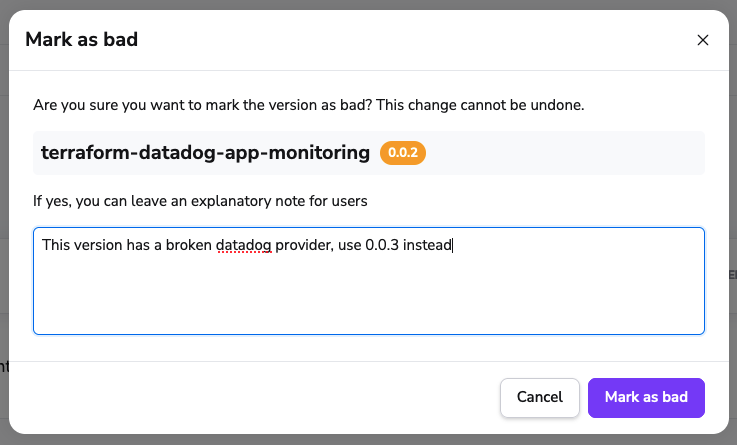
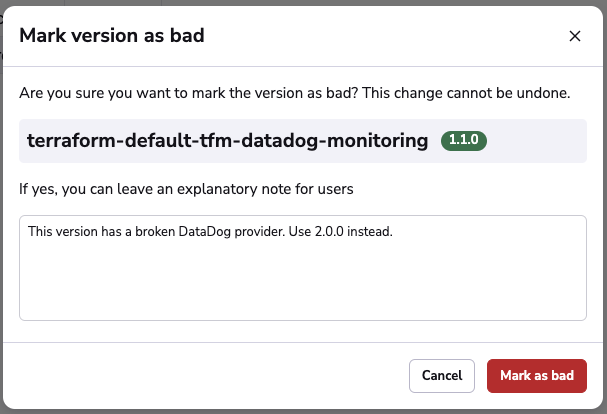
feat: screenshots and text for the new module redesign sections

Changed region(s): [[0.0, 0.0, 1.0, 1.0]]

diff --git a/docs/vendors/terraform/module-registry.md b/docs/vendors/terraform/module-registry.md
@@ -268,7 +268,7 @@ Note that in order to refer to a test case, you need to set a unique `id` to it.
 
 Whenever tests succeed on a [tracked change](../../concepts/run/README.md#where-do-runs-come-from), a new **Version** is created based on the `module_version` in the configuration. Important thing to note is that Spacelift will not let you reuse the number of a successful version, and will require you to strictly follow semantic versioning - ie. you can't go to from `0.2.0` to `0.4.0`, skipping `0.3.0` entirely.
 
-![](../../assets/screenshots/Versions_·_terraform-spacelift-example.png)
+![](../../assets/screenshots/Versions_-_terraform_spacelift_example.png)
 
 Two proposed git flow are as follows:
 
@@ -303,11 +303,18 @@ You can also use [Git push policies](../../concepts/policy/push-policy/README.md
 
 ## Marking versions as bad
 
+!!! warning
+    Marking a version as bad cannot be undone.
+
 If you don't want people to use a specific version of your module, you can mark it as bad. Currently, this feature **doesn't have any technical implications** - it is still downloadable and usable, but it's a good way to communicate to your users that a specific version is not recommended.
 
-You need to click on the version number and then click on the **Mark as bad** button on the right. Make sure to leave a note explaining why the version is bad.
+You can mark a version as bad using the dropdown menu on the right side of the versions list or in the version details view. Make sure to leave a note explaining why the version is bad.
 
 ![](../../assets/screenshots/Version_mark_as_bad.png)
+
+You'll be able to see in the version details that the version has been **marked as bad** and the description.
+
+![](../../assets/screenshots/Version_mark_as_bad_2.png)
 
 ## Modules in practice
 
@@ -322,9 +329,9 @@ In order to use modules, you have to source them from the Spacelift module regis
 
 Unlike Stacks, modules can be shared between Spacelift accounts in a sense that while they're always **managed** by a single account, they can be made accessible to an arbitrary number of other accounts.
 
-In order to share the module with other accounts, please add their names in subdomain form (all lowercase) in the module settings Sharing section:
+In order to share the module with other accounts, please add their names in subdomain form (all lowercase) in the "Module settings" > "Sharing" section:
 
-![](../../assets/screenshots/Edit_module_·_eggs.png)
+![](../../assets/screenshots/Module_-_sharing.png)
 
 This can also be accomplished programmatically using our [Terraform provider](terraform-provider.md).
 
